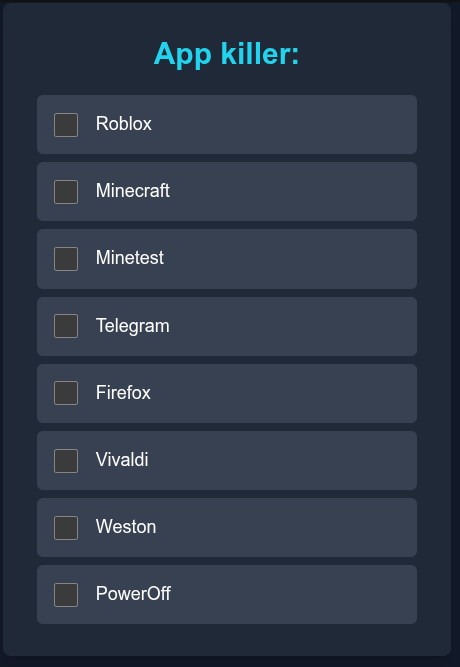
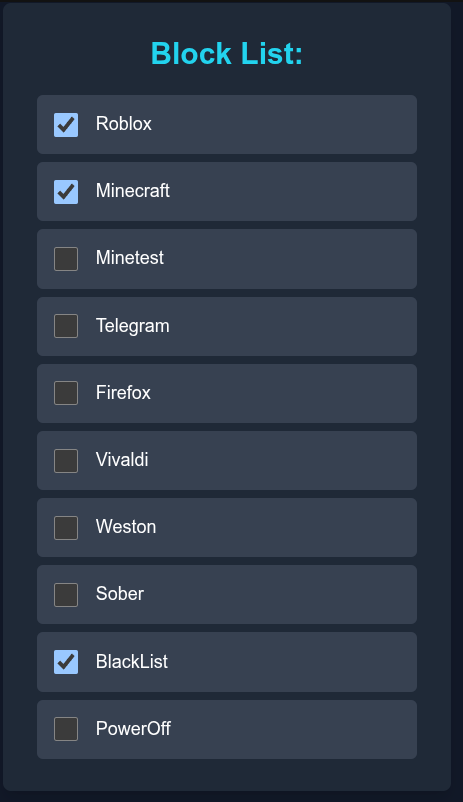
fix: h1

Changed region(s): [[0.0609, 0.03, 0.913, 0.9595]]

diff --git a/src/app/page.tsx b/src/app/page.tsx
@@ -52,7 +52,7 @@ export default function HomePage() {
   return (
     <main className={styles.main}>
       <div className={styles.card}>
-        <h1 className={styles.title}>App killer:</h1>
+        <h1 className={styles.title}>Block List:</h1>
 
         <ul className={styles.appList}>
           {apps.map((app) => (
